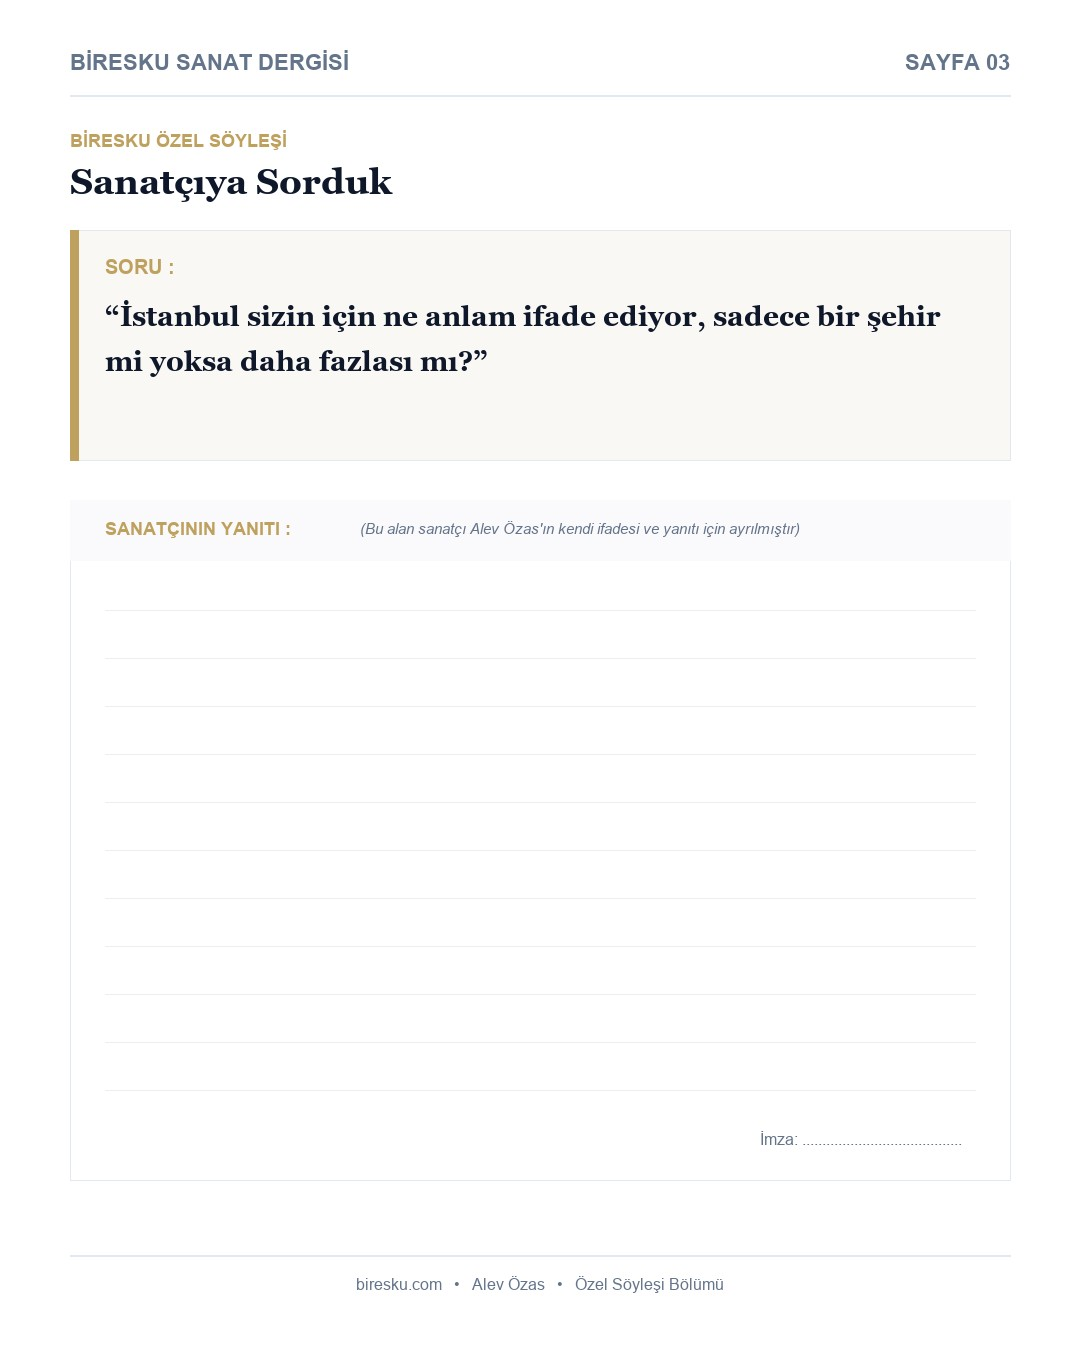
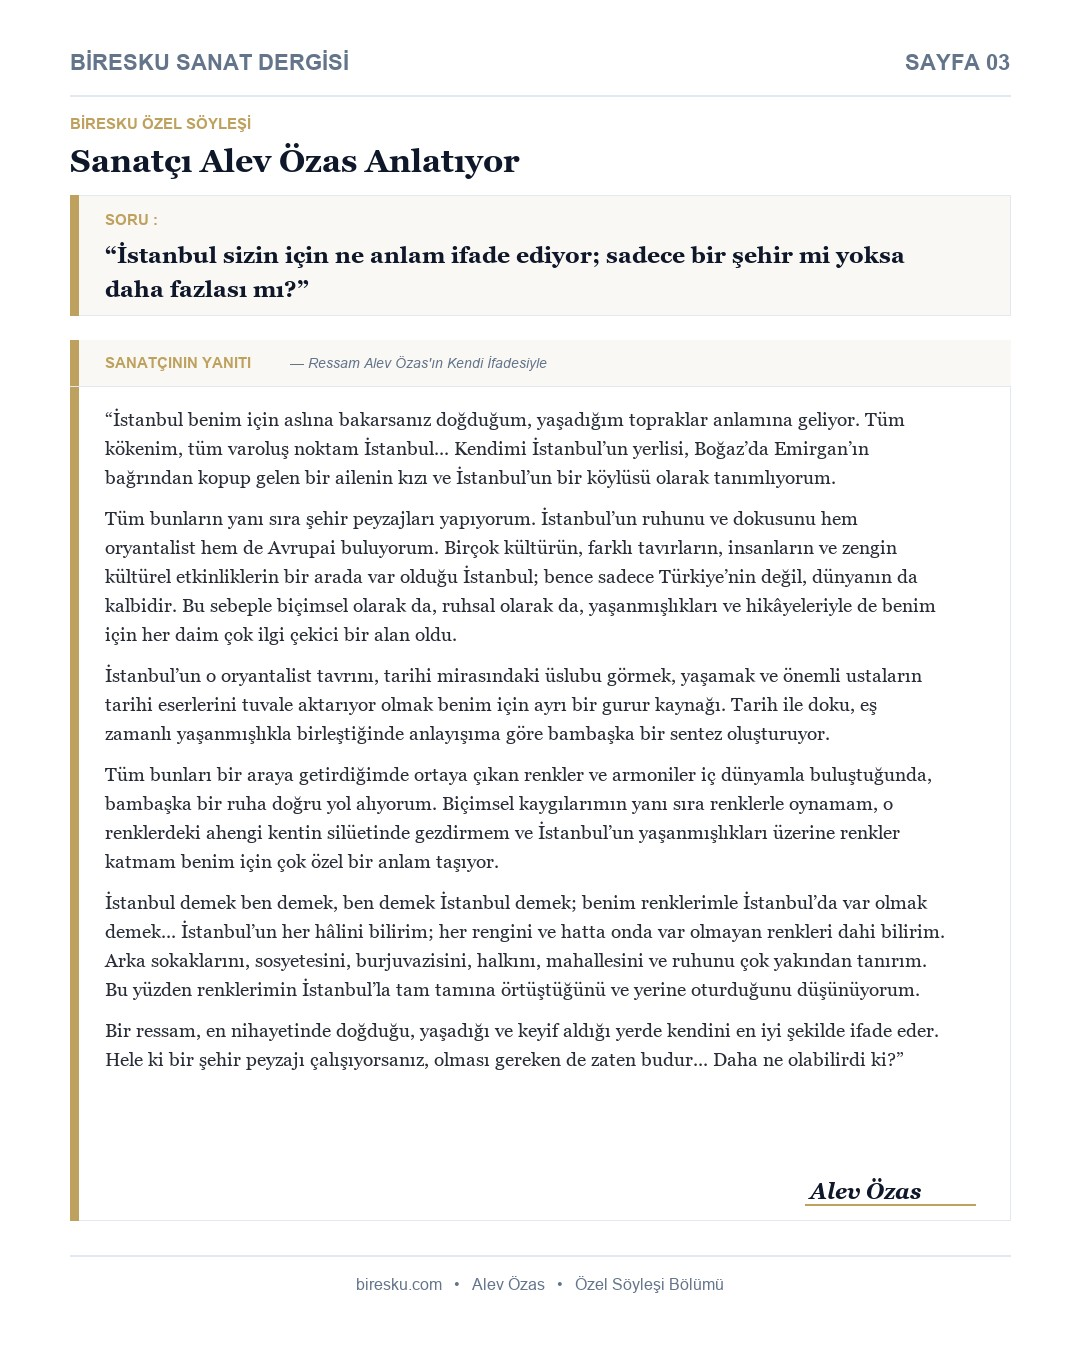
feat(interview): add full approved artist response to Page 3 and web profile

diff --git a/dergi/sanatcilar/alev-ozas/index.html b/dergi/sanatcilar/alev-ozas/index.html
@@ -704,7 +704,41 @@
       </section>
     </div>
 
-    <!-- ========================================================
+        <!-- ========================================================
+         4.5 BİRESKU ÖZEL SÖYLEŞİ: SANATÇIYA SORDUK
+         ======================================================== -->
+    <section class="artist-section-card" style="margin-bottom: 2.5rem; border-left: 4px solid var(--accent, #c8a253);">
+      <div style="display: flex; justify-content: space-between; align-items: center; margin-bottom: 1.25rem; border-bottom: 1px solid var(--border); padding-bottom: 0.75rem;">
+        <div>
+          <span class="artist-card-badge" style="background: rgba(200,162,83,0.12); color: #c8a253; font-weight: 700;">BİRESKU ÖZEL SÖYLEŞİ</span>
+          <h2 style="font-family: var(--font-serif); font-size: 1.6rem; color: var(--text-heading); margin-top: 4px;">Sanatçı Alev Özas Anlatıyor</h2>
+        </div>
+        <span style="font-size: 0.85rem; color: var(--text-muted); font-style: italic;">İstanbul ve Sanat Üzerine</span>
+      </div>
+
+      <div style="background: #f8fafc; border: 1px solid var(--border); border-left: 4px solid #c8a253; padding: 1.25rem 1.5rem; border-radius: 8px; margin-bottom: 1.5rem;">
+        <span style="font-size: 0.8rem; font-weight: 800; color: #c8a253; letter-spacing: 1px; display: block; margin-bottom: 6px;">BİRESKU SORUSU :</span>
+        <p style="font-family: var(--font-serif); font-size: 1.2rem; font-weight: 700; color: var(--text-heading); margin: 0; line-height: 1.5;">
+          “İstanbul sizin için ne anlam ifade ediyor; sadece bir şehir mi yoksa daha fazlası mı?”
+        </p>
+      </div>
+
+      <div class="artist-section-body" style="font-size: 1.05rem; line-height: 1.8; color: var(--text-body);">
+        <p>“İstanbul benim için aslına bakarsanız doğduğum, yaşadığım topraklar anlamına geliyor. Tüm kökenim, tüm varoluş noktam İstanbul... Kendimi İstanbul’un yerlisi, Boğaz’da Emirgan’ın bağrından kopup gelen bir ailenin kızı ve İstanbul’un bir köylüsü olarak tanımlıyorum.”</p>
+        <p>“Tüm bunların yanı sıra şehir peyzajları yapıyorum. İstanbul’un ruhunu ve dokusunu hem oryantalist hem de Avrupai buluyorum. Birçok kültürün, farklı tavırların, insanların ve zengin kültürel etkinliklerin bir arada var olduğu İstanbul; bence sadece Türkiye’nin değil, dünyanın da kalbidir. Bu sebeple biçimsel olarak da, ruhsal olarak da, yaşanmışlıkları ve hikâyeleriyle de benim için her daim çok ilgi çekici bir alan oldu.”</p>
+        <p>“İstanbul’un o oryantalist tavrını, tarihi mirasındaki üslubu görmek, yaşamak ve önemli ustaların tarihi eserlerini tuvale aktarıyor olmak benim için ayrı bir gurur kaynağı. Tarih ile doku, eş zamanlı yaşanmışlıkla birleştiğinde anlayışıma göre bambaşka bir sentez oluşturuyor.”</p>
+        <p>“Tüm bunları bir araya getirdiğimde ortaya çıkan renkler ve armoniler iç dünyamla buluştuğunda, bambaşka bir ruha doğru yol alıyorum. Biçimsel kaygılarımın yanı sıra renklerle oynamam, o renklerdeki ahengi kentin silüetinde gezdirmem ve İstanbul’un yaşanmışlıkları üzerine renkler katmam benim için çok özel bir anlam taşıyor.”</p>
+        <p>“İstanbul demek ben demek, ben demek İstanbul demek; benim renklerimle İstanbul’da var olmak demek... İstanbul’un her hâlini bilirim; her rengini ve hatta onda var olmayan renkleri dahi bilirim. Arka sokaklarını, sosyetesini, burjuvazisini, halkını, mahallesini ve ruhunu çok yakından tanırım. Bu yüzden renklerimin İstanbul’la tam tamına örtüştüğünü ve yerine oturduğunu düşünüyorum.”</p>
+        <p>“Bir ressam, en nihayetinde doğduğu, yaşadığı ve keyif aldığı yerde kendini en iyi şekilde ifade eder. Hele ki bir şehir peyzajı çalışıyorsanız, olması gereken de zaten budur... Daha ne olabilirdi ki?”</p>
+        
+        <div style="text-align: right; margin-top: 1.5rem; border-top: 1px solid var(--border); padding-top: 1rem;">
+          <span style="font-family: var(--font-serif); font-size: 1.25rem; font-weight: 700; font-style: italic; color: var(--text-heading);">Alev Özas</span>
+          <div style="font-size: 0.85rem; color: #c8a253; font-weight: 600;">Ressam • Özel Söyleşi</div>
+        </div>
+      </div>
+    </section>
+
+<!-- ========================================================
          5. 10 SEÇKİN MASTER ESER GALERİSİ
          ======================================================== -->
     <section class="artworks-section-container">

diff --git a/assets/artists-data.js b/assets/artists-data.js
@@ -711,7 +711,7 @@ window.ARTISTS_DATA = [
     "studio": "Çekmeköy Sanat Atölyesi, İstanbul",
     "coverImage": "/assets/alev-ozas/alev-ozas-pp.jpg",
     "shortBio": "İstanbul'un bin yıllık mimari silüetini ve Boğaz'ın yaşayan ruhunu taşist fırça darbeleri ve ritmik renk armonileriyle tuvale aktaran çağdaş Türk ressamı.",
-    "quote": "İstanbul sizin için ne anlam ifade ediyor, sadece bir şehir mi yoksa daha fazlası mı? [Sanatçı Alev Özas'ın yanıtı için ayrılmıştır]",
+    "quote": "İstanbul demek ben demek, ben demek İstanbul demek; benim renklerimle İstanbul’da var olmak demek... İstanbul’un her hâlini bilirim; her rengini ve hatta onda var olmayan renkleri dahi bilirim.",
     "biography": [
       "Alev Özas, 1977 yılında İstanbul’da doğdu. Küçük yaşlardan itibaren resim tutkusunun peşinden giderek Marmara Üniversitesi Güzel Sanatlar Fakültesi Resim Bölümü’ne girdi. Fakültede Prof. Dr. Ramiz Aydın atölyesinde renk, armoni ve taşizm (lekesel anlatım) disiplinlerinde yetkinleşti ve 2003 yılında başarıyla mezun oldu.",
       "2005 - 2012 yılları arasında Türk çağdaş sanatının en büyük ustalarından Prof. Dr. Devrim Erbil'in özel atölyesinde 8 yıl boyunca baş asistanlık görevini yürüttü; usta sanatçıyla birlikte çok sayıda anıtsal proje ve uluslararası sergiye imza attı.",

diff --git a/dergi/assets/artists-data.js b/dergi/assets/artists-data.js
@@ -711,7 +711,7 @@ window.ARTISTS_DATA = [
     "studio": "Çekmeköy Sanat Atölyesi, İstanbul",
     "coverImage": "/assets/alev-ozas/alev-ozas-pp.jpg",
     "shortBio": "İstanbul'un bin yıllık mimari silüetini ve Boğaz'ın yaşayan ruhunu taşist fırça darbeleri ve ritmik renk armonileriyle tuvale aktaran çağdaş Türk ressamı.",
-    "quote": "İstanbul sizin için ne anlam ifade ediyor, sadece bir şehir mi yoksa daha fazlası mı? [Sanatçı Alev Özas'ın yanıtı için ayrılmıştır]",
+    "quote": "İstanbul demek ben demek, ben demek İstanbul demek; benim renklerimle İstanbul’da var olmak demek... İstanbul’un her hâlini bilirim; her rengini ve hatta onda var olmayan renkleri dahi bilirim.",
     "biography": [
       "Alev Özas, 1977 yılında İstanbul’da doğdu. Küçük yaşlardan itibaren resim tutkusunun peşinden giderek Marmara Üniversitesi Güzel Sanatlar Fakültesi Resim Bölümü’ne girdi. Fakültede Prof. Dr. Ramiz Aydın atölyesinde renk, armoni ve taşizm (lekesel anlatım) disiplinlerinde yetkinleşti ve 2003 yılında başarıyla mezun oldu.",
       "2005 - 2012 yılları arasında Türk çağdaş sanatının en büyük ustalarından Prof. Dr. Devrim Erbil'in özel atölyesinde 8 yıl boyunca baş asistanlık görevini yürüttü; usta sanatçıyla birlikte çok sayıda anıtsal proje ve uluslararası sergiye imza attı.",
